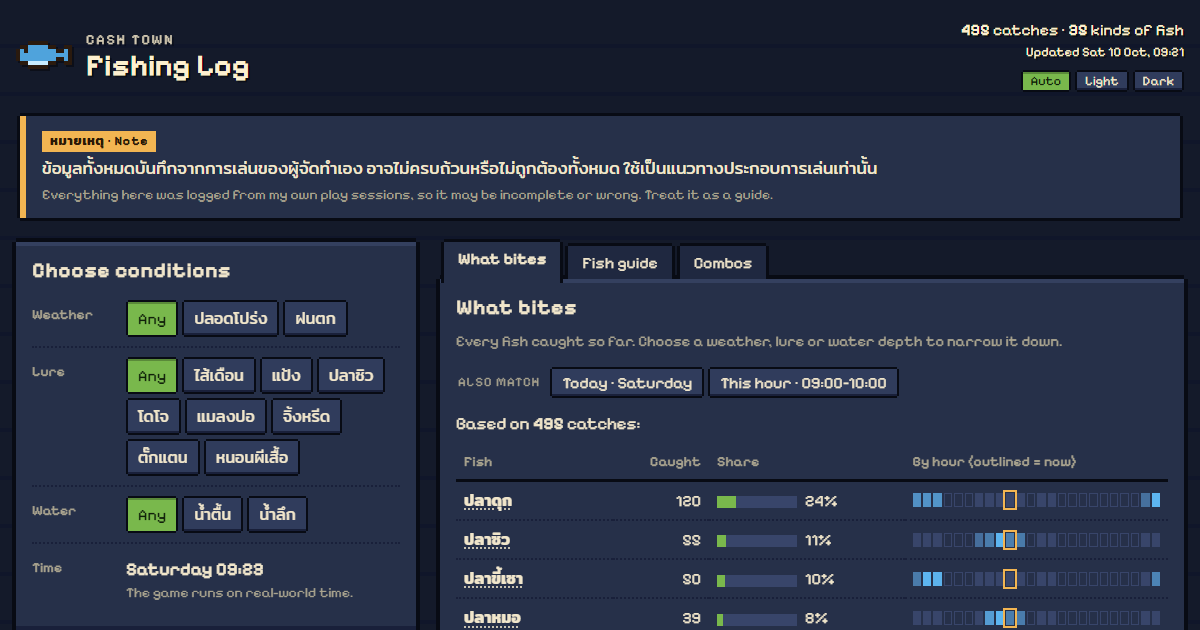
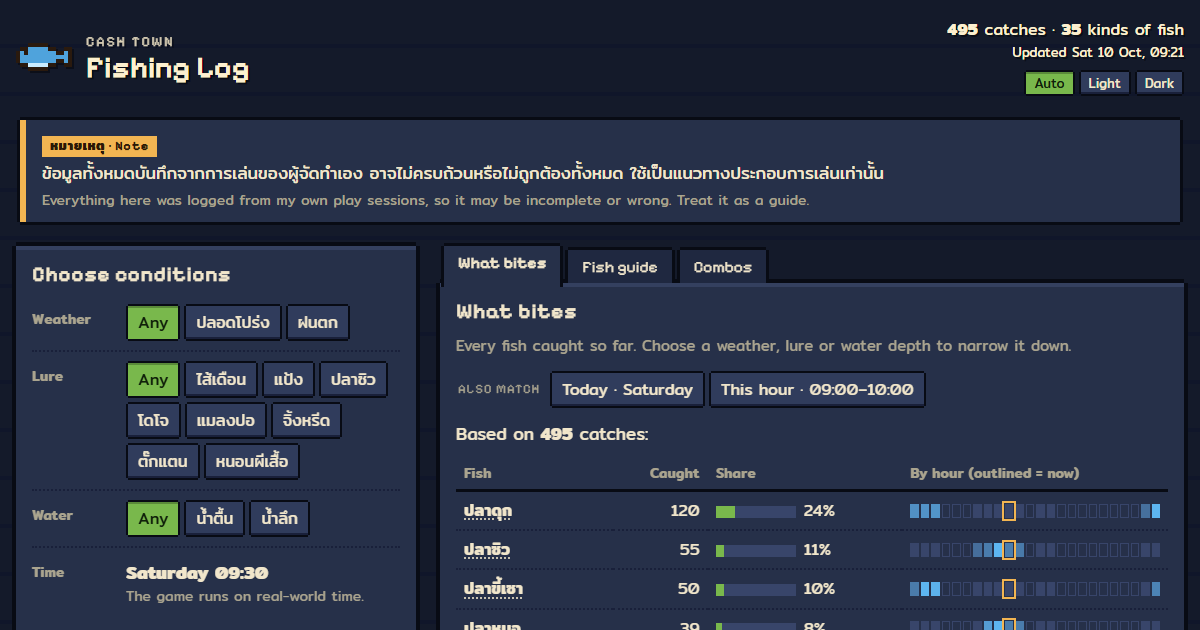
Easier-to-read font: pixel font only for titles, headings and tabs
Body text, numbers and buttons now use Mitr (Thai and Latin), so small
labels and digits like 495/55 no longer read as 498/88. The status line
no longer picks up the red warning-banner style.

diff --git a/index.html b/index.html
@@ -16,7 +16,7 @@
 <link rel="icon" id="favicon" href="data:,">
 <link rel="preconnect" href="https://fonts.googleapis.com">
 <link rel="preconnect" href="https://fonts.gstatic.com" crossorigin>
-<link href="https://fonts.googleapis.com/css2?family=Mitr:wght@400;500;600&family=Pixelify+Sans:wght@400..700&display=swap" rel="stylesheet">
+<link href="https://fonts.googleapis.com/css2?family=Mitr:wght@400;500;600;700&family=Pixelify+Sans:wght@400..700&display=swap" rel="stylesheet">
 <script>
   // Apply a chosen Light/Dark theme before the page paints (Auto follows the browser).
   try {
@@ -67,11 +67,13 @@
     color-scheme:dark;
   }
   html,body{margin:0}
+  /* Readable font for everything; the pixel font only for titles, headings and tabs. */
   body{
-    font-family:'Pixelify Sans','Mitr',ui-monospace,Consolas,monospace;
+    font-family:'Mitr',system-ui,sans-serif;
     font-size:17px;line-height:1.45;color:var(--ink);min-height:100vh;
     background:var(--page) repeating-linear-gradient(180deg,transparent 0 44px,var(--page2) 44px 48px);
   }
+  h1,.top small,.panel-head h2,.tab,.notice-tag,.mini-label,.match .label{font-family:'Pixelify Sans','Mitr',system-ui,sans-serif}
   button{font-family:inherit}
   :focus-visible{outline:2px solid var(--accent);outline-offset:3px}
 
@@ -95,7 +97,7 @@
   .top .stats{margin-left:auto;font-size:16px;text-align:right}
   .db{font-size:13px;margin-top:2px}
   .db.ok::before{content:'';display:inline-block;width:8px;height:8px;background:#8fdc6a;margin-right:6px;vertical-align:1px}
-  .db.warn{color:#ffd27a}
+  .db.bad{color:#ffd27a}
   .theme{display:inline-flex;gap:8px;margin-top:8px;padding:2px;text-shadow:none}
   .theme .chip{font-size:13px;padding:1px 8px}
   .banner{grid-column:1/-1;background:var(--accent);color:var(--accent-ink);padding:12px 16px;box-shadow:var(--px3)}
@@ -506,7 +508,7 @@ function renderDb() {
     pubEl.hidden = true;
     return;
   }
-  let cls = 'warn', text;
+  let cls = 'bad', text;
   if (db === 'off') text = 'Browser only, not in the database';
   else if (db === 'connecting') { cls = ''; text = 'Connecting to database…'; }
   else if (db === 'offline') text = 'Database not reachable, retrying (kept in browser meanwhile)';
@@ -517,7 +519,7 @@ function renderDb() {
   const p = db === 'ok' ? pubText() : '';
   pubEl.hidden = !p;
   pubEl.textContent = p;
-  pubEl.className = `db${pub?.error ? ' warn' : ''}`;
+  pubEl.className = `db${pub?.error ? ' bad' : ''}`;
   $('#warn').hidden = storageOk || db === 'ok';
 }
 
